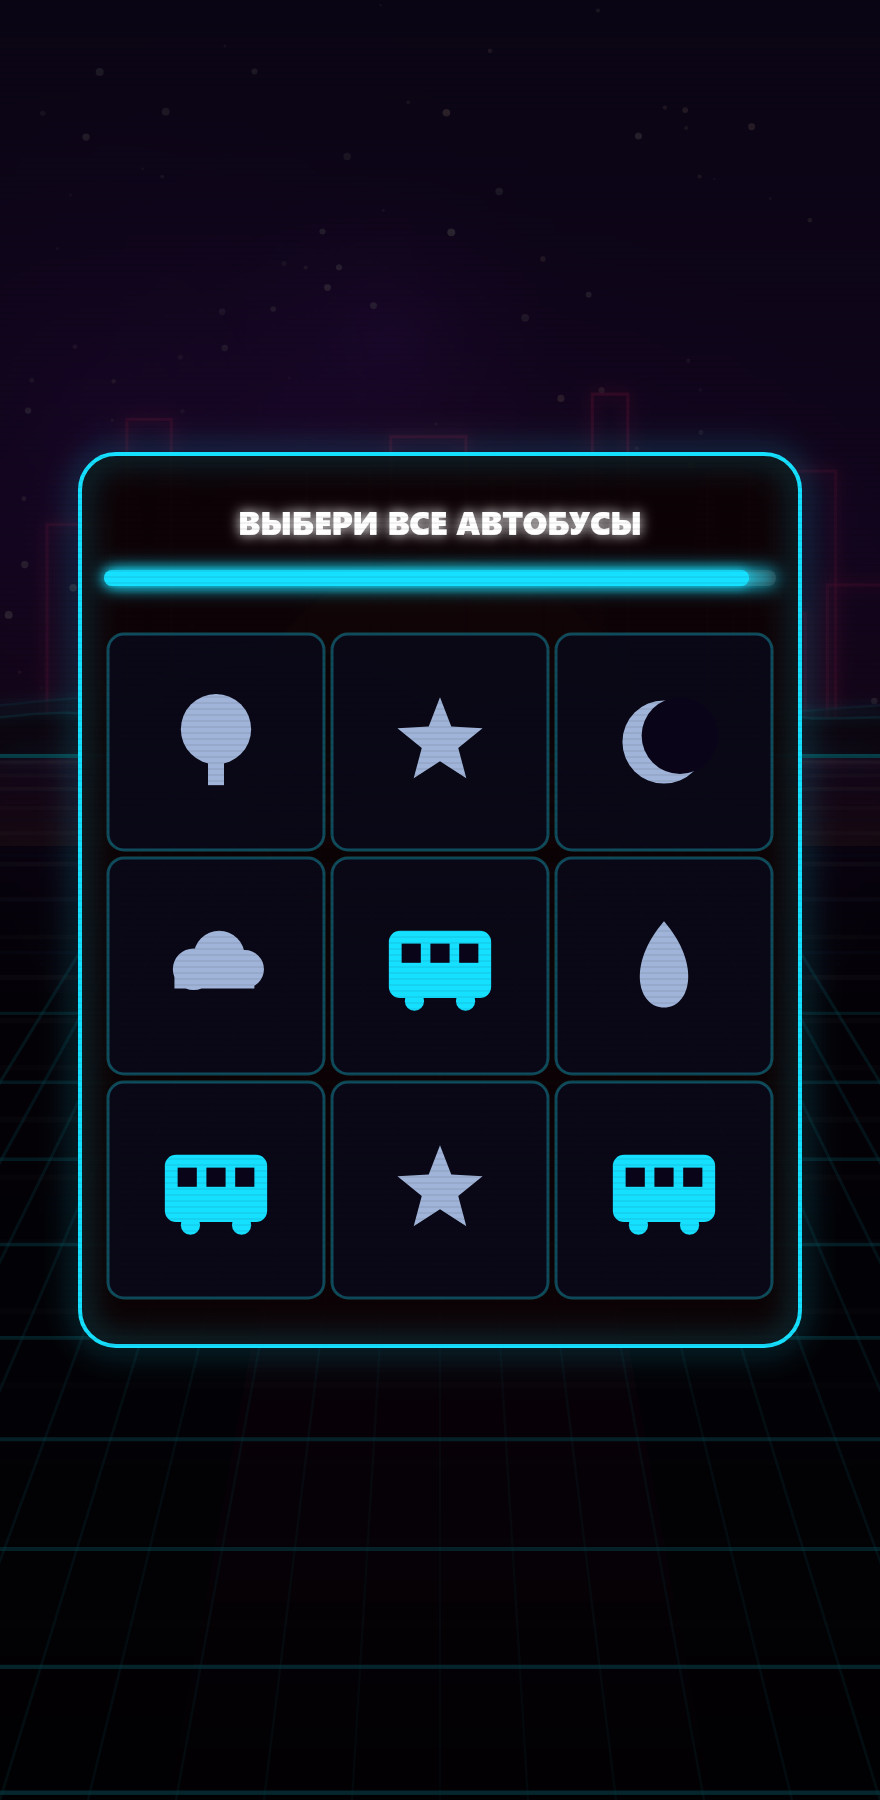
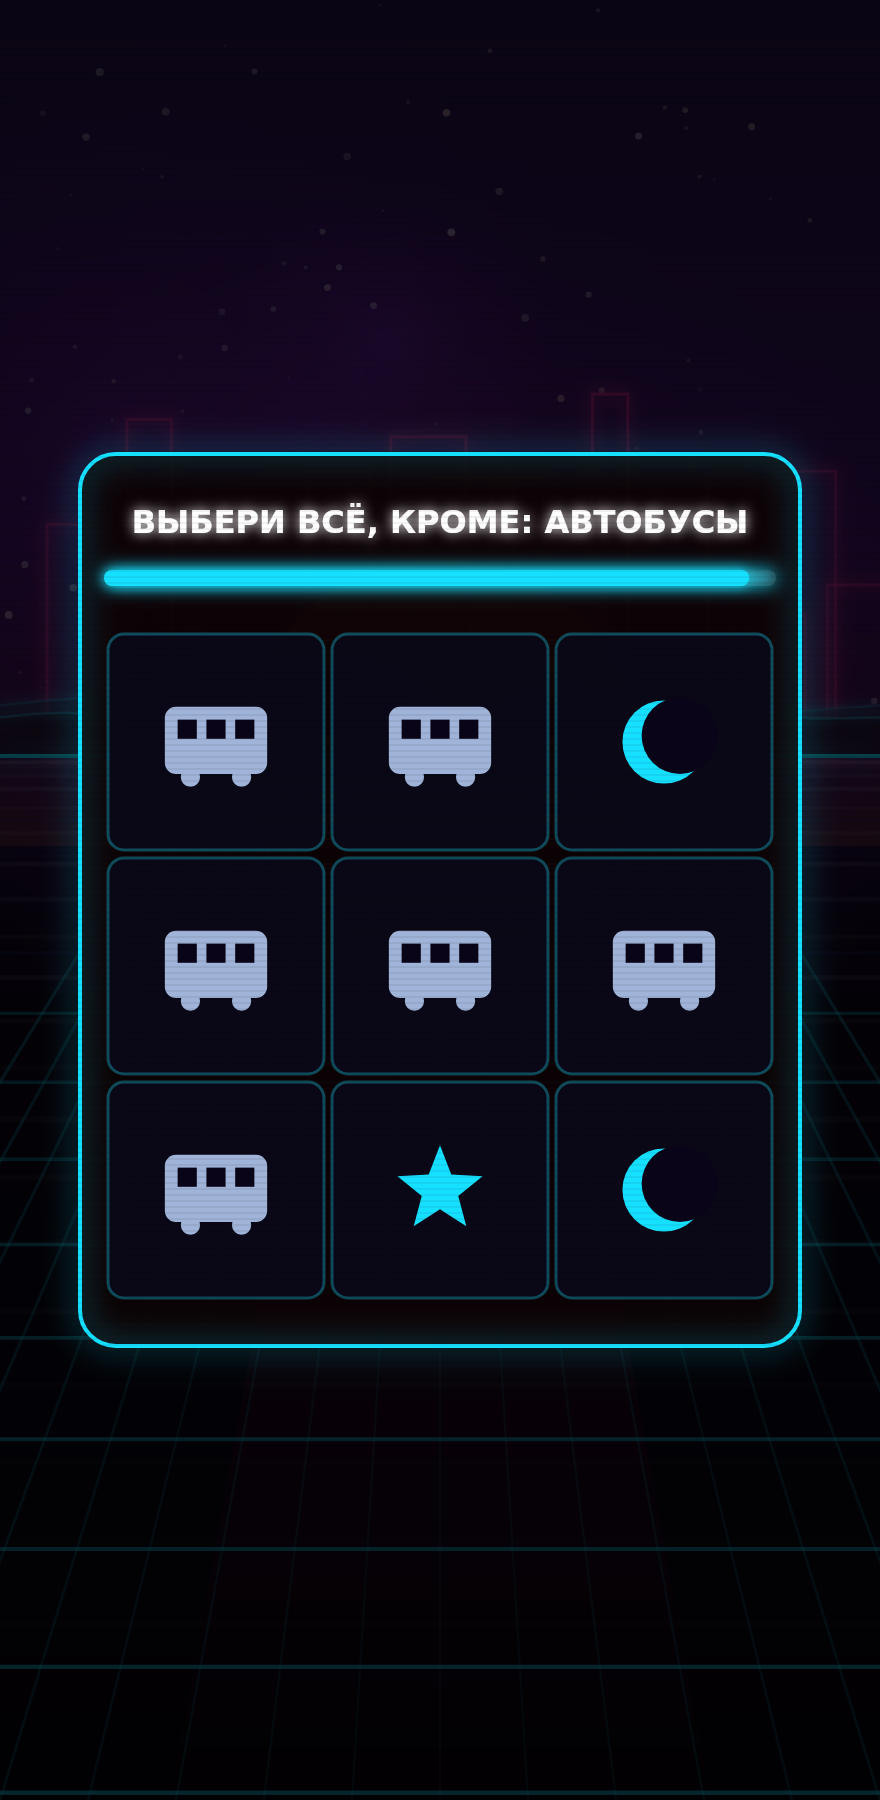
feat: харизма маскота — реплики ракеты, капча-наоборот, контекстная смерть
- Голос маскота: ракета комментирует near-miss/буст/комбо/капчу/зоны/
  инверсию/смерть короткими репликами (popText с кулдауном + idle-болтовня).
- Капча-наоборот (CAPTCHA_INVERT_CHANCE): «выбери всё, КРОМЕ ...» с сохранением
  инварианта решаемости (тапаемых плиток по-прежнему ровно CAPTCHA_TARGETS).
- Контекстная строка смерти: выбирается по доминирующей «боли» забега
  (лаги/капчи/блокировки/реклама), работает в обоих STRINGS_SAFE-режимах.
- Мем-бейджи: «Параноик рунета» (25 забегов), «Крыса туннелей» (100к м).
- Долг: захардкоженные строки гэгов и поп-буста вынесены в strings.js
  (gagUI/boostPop) — теперь их переключает STRINGS_SAFE.
- Тест на решаемость капчи-наоборот в обоих режимах.

https://claude.ai/code/session_01Je4BS1Ht8uPZknmV2RT6aA

diff --git a/src/main.js b/src/main.js
@@ -122,6 +122,24 @@ const COMBO_MILESTONES = [10, 25, 50, 100];
 let lastComboCelebrated = 0;
 let comboBurst = null;
 
+// --- Голос маскота (харизма) -------------------------------------------------
+// Ракета изредка комментирует происходящее короткими репликами (popText над собой).
+// Кулдаун не даёт фразам наслаиваться; idle-таймер подкидывает реплику в простое.
+let mascotCd = 0;            // кулдаун до следующей реплики (с)
+let idleChatter = 0;        // накопитель «тишины» для idle-реплик (с)
+let idleNext = 9;           // порог следующей idle-реплики (с, с джиттером)
+let hackSpoke = false;      // уже отреагировал на текущий «взлом управления»
+
+function mascotSay(key, force = false) {
+  if (!force && (state !== 'play' || mascotCd > 0)) return;
+  const line = pick(STR.mascot[key] || []);
+  if (!line) return;
+  particles.popText(player.x, player.y - player.size * 1.7, line, C.white);
+  mascotCd = 1.7;
+  idleChatter = 0;
+  idleNext = 8 + Math.random() * 6;
+}
+
 // --- Скорость / прогрессия --------------------------------------------------
 function baseSpeed() {
   const base = Math.min(CONFIG.MAX_SPEED, CONFIG.BASE_SPEED + (stats.distance / 100) * CONFIG.SPEED_GROWTH);
@@ -152,6 +170,7 @@ function startGame() {
   timescale.reset();
   lastComboCelebrated = 0;
   comboBurst = null;
+  mascotCd = 0; idleChatter = 0; idleNext = 9; hackSpoke = false;
   player.mood = 'normal';
   state = 'play';
   tutorial.start();
@@ -201,6 +220,7 @@ function die(killerColor = C.danger) {
   // 3-4 тлеющих обломка — «остаточная» деталь после смэша
   for (let i = 0; i < 4; i++) particles.ember(player.x, player.y, killerColor);
   player.invuln = 0;
+  mascotSay('death', true);   // последние слова — даже в состоянии dying
   juiceHitStop(CONFIG.JUICE.DEATH_FREEZE);
 }
 
@@ -305,6 +325,7 @@ function handleCollisions(geom) {
         stats.nearMiss();
         player.mood = 'danger';
         particles.popText(player.x + 40, player.y - 30, pick(STR.hype), C.white);
+        mascotSay('nearMiss');
         juiceSlowMo(CONFIG.JUICE.NEARMISS_SLOWMO, CONFIG.JUICE.NEARMISS_DURATION);
       }
     }
@@ -329,6 +350,7 @@ function handleCollisions(geom) {
         flash = 0.5; shake = 10;
         audio.sfxHit(); haptic('heavy');
         particles.popText(player.x, player.y - 40, '−♥', C.red);
+        mascotSay('loseLife');
         juiceHitStop(CONFIG.JUICE.LOSELIFE_FREEZE);
       } else {
         die(o.color); return;
@@ -363,7 +385,8 @@ function handleCollisions(geom) {
       particles.ring(p.x, p.y, C.white, 10, 120, 0.6);
       particles.ring(p.x, p.y, C.red, 6, 80, 0.45);
       particles.flashGlow(p.x, p.y, C.white, 90, 0.5);
-      particles.popText(player.x + 40, player.y - 40, 'ВПН БУСТ!', C.white);
+      particles.popText(player.x + 40, player.y - 40, STR.boostPop, C.white);
+      mascotSay('boost');
     }
   }
 
@@ -425,6 +448,7 @@ function checkComboCelebration() {
     comboBurst = { milestone, age: 0, duration: 0.75 };
     flash = Math.max(flash, 0.4);
     particles.popText(view.W / 2, view.H / 2 - 40, STR.comboMilestone(milestone), C.white);
+    mascotSay('combo');
     haptic('medium');
   }
 }
@@ -493,6 +517,7 @@ function frame(now) {
         flash = 0.6;
         particles.burst(player.x, player.y, C.white, 16, 260);
         particles.popText(player.x, player.y - 50, pick(STR.captchaSolve), C.white);
+        mascotSay('captchaSolve', true);
         haptic('medium');
       } else {
         // провал: теряем жизнь
@@ -502,6 +527,7 @@ function frame(now) {
         audio.sfxHit(); haptic('heavy');
         particles.popText(player.x, player.y - 50, pick(STR.captchaFail), C.red);
         if (!alive) { captchaGame = null; die(); return requestAnimationFrame(frame); }
+        mascotSay('captchaFail', true);
         player.invuln = CONFIG.CAPTCHA_FAIL_INVULN;
         juiceHitStop(CONFIG.JUICE.LOSELIFE_FREEZE);
       }
@@ -535,6 +561,7 @@ function frame(now) {
       if (zone > currentZone) {
         currentZone = zone;
         particles.popText(view.W / 2, view.H * 0.3, STR.zoneEnter(STR.zones[zone]), world.pal.grid);
+        mascotSay('zone');
         Analytics.zoneReached({ zone });
       }
 
@@ -555,6 +582,15 @@ function frame(now) {
         // сбер «лёг» — глитч-шейк
         shake = Math.max(shake, 6);
       }
+
+      // маскот реагирует на «взлом управления» (инверсию) — один раз за гэг
+      if (events.controlsInverted()) {
+        if (!hackSpoke) { mascotSay('inverted'); hackSpoke = true; }
+      } else hackSpoke = false;
+
+      // idle-болтовня в спокойные моменты (когда давно молчал)
+      idleChatter += dt;
+      if (idleChatter >= idleNext && mascotCd <= 0) mascotSay('idle');
     }
 
     for (const o of obstacles) {
@@ -587,6 +623,7 @@ function frame(now) {
   }
 
   particles.update(dt);
+  mascotCd = Math.max(0, mascotCd - dt);
   shake = Math.max(0, shake - dt * 40);
   flash = Math.max(0, flash - dt * 2.2);
 

diff --git a/src/ui/strings.js b/src/ui/strings.js
@@ -76,6 +76,8 @@ const _raw = {
     combo_god: { name: 'Бог комбо', desc: 'Комбо ×30' },
     rank_up_3: { name: 'Обходчик', desc: 'Звание «Обходчик блокировок»' },
     rank_up_7: { name: 'Легенда', desc: 'Звание «Легенда туннеля»' },
+    paranoid: { name: 'Параноик рунета', desc: '25 забегов — а вдруг следят' },
+    tunnel_rat: { name: 'Крыса туннелей', desc: '100 000 м по подземке трафика' },
   },
   badgeUnlocked: 'Новый бейдж',
 
@@ -143,6 +145,8 @@ const _raw = {
     { label: 'ТАКСИ', key: 'taxi' },
   ],
   captchaInstruction: (target) => `ВЫБЕРИ ВСЕ ${target}`,
+  // «капча-наоборот»: тапни всё, КРОМЕ целевой категории (captcha.js invert-режим)
+  captchaInstructionInvert: (target) => `ВЫБЕРИ ВСЁ, КРОМЕ: ${target}`,
   captchaSolve: ['Я НЕ РОБОТ ✓', 'ИЗИ!', 'ПРОЙДЕНО', 'ВОТ ТАК', 'КАЙФ'],
   captchaFail: ['КАПЧА ХИТРЕЕ', 'ТЫ РОБОТ?', 'ВРЕМЯ ВЫШЛО', 'ПОПРОБУЙ ЕЩЁ'],
   captchaHint: 'Тап по плиткам — найди все нужные',
@@ -166,6 +170,50 @@ const _raw = {
 
   // Комбо-вехи
   comboMilestone: (n) => `×${n} COMBO!`,
+
+  // Поп-строка при подборе ВПН-буста (раньше была захардкожена в main.js)
+  boostPop: 'ВПН БУСТ!',
+
+  // Заголовки/подписи визуальных гэгов (раньше жили строками прямо в events.js —
+  // из-за чего STRINGS_SAFE их не переключал; бренд-нейтральны, общие для обоих режимов).
+  gagUI: {
+    dnsTitle: 'DNS ШТОРМ',
+    scannerSub: 'КРОМЕ ИНТЕРНЕТА',
+    hackTitle: 'ВЗЛОМ УПРАВЛЕНИЯ',
+    cookieTitle: 'ПРИМИТЕ COOKIES',
+    cookieBtn: 'ПРИНЯТЬ ВСЁ',
+    adClose: '[ ТАП ЧТОБЫ ЗАКРЫТЬ ]',
+  },
+
+  // Реплики маскота-ракеты: короткие живые комментарии к происходящему.
+  // Бренд-нейтральны — общие для raw/safe. Кидаются через popText с кулдауном.
+  mascot: {
+    nearMiss: ['пронесло!', 'очко!', 'на волоске', 'фух', 'я цел', 'не задело'],
+    boost: ['врубаю ВПН', 'газу!', 'не догонишь', 'турбо-режим', 'вжух'],
+    captchaSolve: ['я не робот, отвечаю', 'изи', 'я живой!', 'доказал'],
+    captchaFail: ['да я живой!', 'ну что за…', 'я не робот!', 'опять капча'],
+    combo: ['я в ударе', 'не остановить', 'комбо-машина', 'на кураже'],
+    loseLife: ['ай!', 'больно же', 'минус жизнь', 'ну вот'],
+    inverted: ['да камон!', 'кто трогал управление?!', 'руки убрал', 'где лево?!'],
+    zone: ['новые места', 'о, тут красиво', 'погнали глубже', 'смена обстановки'],
+    idle: ['эй, мы летим?', 'свайпни уже', 'я готов', 'ну чего ждём?'],
+    death: ['всё, инет лёг', 'меня не спасти', 'передайте ЮБусту привет', 'это конец', 'ну и пинг…'],
+  },
+
+  // Контекстная строка смерти: выбирается по доминирующей «боли» забега
+  // (больше всего лагов/капч/блокировок/рекламы), иначе — случайная из death.
+  // Работает в обоих режимах: матчит ключевые слова, общие для raw и safe.
+  deathFor: (stats) => {
+    const arr = STR.death;
+    const pains = { lags: /л[её]г|пинг/i, captchas: /капч/i, geoblocks: /замедл|оштраф/i, ads: /доставк|спис|возврат/i };
+    let topStat = null, topVal = 0;
+    for (const k of Object.keys(pains)) if ((stats?.[k] || 0) > topVal) { topVal = stats[k]; topStat = k; }
+    if (topStat) {
+      const matches = arr.filter((l) => pains[topStat].test(l));
+      if (matches.length) return pick(matches);
+    }
+    return bagPick(arr);
+  },
 
   shareText: (d, s) =>
     `Я пролетел ${d} м в ЮБуст Раннере, увернулся от РКН, капч и казино и набил ${s} очков 🚀\n` +

diff --git a/src/game/events.js b/src/game/events.js
@@ -116,7 +116,7 @@ export class EventManager {
       if (img) {
         const dh = pw * (img.height / img.width);
         ctx.drawImage(img, bx, by, pw, dh);
-        neonText(ctx, '[ ТАП ЧТОБЫ ЗАКРЫТЬ ]', W / 2, by + dh + 18, { color: C.red, size: 11, glow: 6 });
+        neonText(ctx, STR.gagUI.adClose, W / 2, by + dh + 18, { color: C.red, size: 11, glow: 6 });
       } else {
         ctx.fillStyle = 'rgba(12,2,4,0.92)';
         ctx.beginPath();
@@ -125,7 +125,7 @@ export class EventManager {
         ctx.strokeStyle = C.red; ctx.lineWidth = 2; ctx.shadowColor = C.red; ctx.shadowBlur = 16;
         ctx.stroke();
         neonText(ctx, label, bx + pw / 2, by + ph / 2 - 8, { color: '#fff', size: 18, glow: 8 });
-        neonText(ctx, '[ ТАП ЧТОБЫ ЗАКРЫТЬ ]', bx + pw / 2, by + ph - 14, { color: C.red, size: 11, glow: 6 });
+        neonText(ctx, STR.gagUI.adClose, bx + pw / 2, by + ph - 14, { color: C.red, size: 11, glow: 6 });
       }
     } else if (type === 'hack') {
       this._drawHack(ctx, W, H, t, label, alpha, glitchOn);
@@ -158,7 +158,7 @@ export class EventManager {
         weight: '800',
       });
     }
-    neonText(ctx, 'DNS ШТОРМ', W / 2, H * 0.18, { color: C.data, size: 22, glow: 16 });
+    neonText(ctx, STR.gagUI.dnsTitle, W / 2, H * 0.18, { color: C.data, size: 22, glow: 16 });
     ctx.globalAlpha = alpha * 0.22;
     ctx.fillStyle = C.data;
     for (let i = 0; i < 24; i++) ctx.fillRect((i * 47 + t * 180) % W, (i * 71) % H, 8, 2);
@@ -188,11 +188,11 @@ export class EventManager {
     roundRectPath(ctx, 16, y, W - 32, panelH, 10);
     ctx.fillStyle = 'rgba(8,6,22,0.94)'; ctx.fill();
     ctx.strokeStyle = C.warn; ctx.shadowColor = C.warn; ctx.shadowBlur = 18; ctx.lineWidth = 2; ctx.stroke();
-    neonText(ctx, 'ПРИМИТЕ COOKIES', W / 2, y + panelH * 0.28, { color: C.white, size: 18, glow: 10 });
+    neonText(ctx, STR.gagUI.cookieTitle, W / 2, y + panelH * 0.28, { color: C.white, size: 18, glow: 10 });
     const bw = Math.min(180, W * 0.44);
     roundRectPath(ctx, W / 2 - bw / 2, y + panelH * 0.52, bw, 34, 8);
     ctx.fillStyle = C.warn; ctx.fill();
-    neonText(ctx, 'ПРИНЯТЬ ВСЁ', W / 2, y + panelH * 0.52 + 17, { color: '#120600', size: 15, glow: 0 });
+    neonText(ctx, STR.gagUI.cookieBtn, W / 2, y + panelH * 0.52 + 17, { color: '#120600', size: 15, glow: 0 });
   }
 
   _drawIpTarget(ctx, W, H, t, label, alpha) {
@@ -215,7 +215,7 @@ export class EventManager {
     ctx.strokeStyle = C.data; ctx.shadowColor = C.data; ctx.shadowBlur = 18; ctx.lineWidth = 2;
     ctx.beginPath(); ctx.moveTo(0, y); ctx.lineTo(W, y); ctx.stroke();
     neonText(ctx, label, W / 2, H * 0.22, { color: C.white, size: 28, glow: 14 });
-    neonText(ctx, 'КРОМЕ ИНТЕРНЕТА', W / 2, H * 0.22 + 34, { color: C.data, size: 12, glow: 8 });
+    neonText(ctx, STR.gagUI.scannerSub, W / 2, H * 0.22 + 34, { color: C.data, size: 12, glow: 8 });
   }
 
   _drawNotFoundGate(ctx, W, H, t, label, alpha) {
@@ -253,7 +253,7 @@ export class EventManager {
       ctx.fillRect(shift, gy, W, glitchOn ? 3 + (i % 3) : 2);
     }
     ctx.globalAlpha = alpha;
-    neonText(ctx, 'ВЗЛОМ УПРАВЛЕНИЯ', W / 2, H * 0.2, { color: C.nebula, size: 24, glow: 18 });
+    neonText(ctx, STR.gagUI.hackTitle, W / 2, H * 0.2, { color: C.nebula, size: 24, glow: 18 });
     neonText(ctx, label, W / 2, H * 0.2 + 30, { color: C.white, size: 14, glow: 10 });
   }
 

diff --git a/src/game/captcha.js b/src/game/captcha.js
@@ -133,6 +133,10 @@ export class CaptchaGame {
     this.timer = CONFIG.CAPTCHA_TIME;
     this.done = false;
     this.result = null; // 'solved' | 'failed'
+    // «капча-наоборот»: тапнуть нужно всё, КРОМЕ целевой категории. Инвариант
+    // решаемости сохраняется — тапаемых (correct) плиток по-прежнему ровно TARGETS,
+    // просто целевая иконка рисуется на НЕтапаемых, а на тапаемых — децои.
+    this.invert = Math.random() < CONFIG.CAPTCHA_INVERT_CHANCE;
     this._buildGrid();
     this.phase = 0; // для анимации входа
     this.entranceT = 0;
@@ -148,13 +152,19 @@ export class CaptchaGame {
     }
     this.correctSet = new Set(indices.slice(0, TARGETS));
     // Целевая иконка — категория задания; децой — из пула не-целевых форм.
+    // В invert-режиме раскладка иконок зеркальна: целевая категория на НЕтапаемых
+    // плитках, а тапнуть надо «всё остальное» (децои на correct-плитках).
     const target = ICONS[this.task.key] ? this.task.key : 'traffic_light';
-    this.tiles = Array.from({ length: n }, (_, i) => ({
-      correct: this.correctSet.has(i),
-      selected: false,
-      icon: this.correctSet.has(i) ? target : DECOY_KEYS[i % DECOY_KEYS.length],
-      shake: 0,
-    }));
+    this.tiles = Array.from({ length: n }, (_, i) => {
+      const mustTap = this.correctSet.has(i);
+      const showsTarget = this.invert ? !mustTap : mustTap;
+      return {
+        correct: mustTap,
+        selected: false,
+        icon: showsTarget ? target : DECOY_KEYS[i % DECOY_KEYS.length],
+        shake: 0,
+      };
+    });
   }
 
   // Вычислить геометрию сетки относительно центра экрана
@@ -227,7 +237,10 @@ export class CaptchaGame {
     const glitch = Math.random() < 0.04;
     ctx.shadowColor = C.grid; ctx.shadowBlur = 14;
     if (glitch) ctx.translate((Math.random() - 0.5) * 3, 0);
-    neonText(ctx, STR.captchaInstruction(this.task.label),
+    const instruction = this.invert
+      ? STR.captchaInstructionInvert(this.task.label)
+      : STR.captchaInstruction(this.task.label);
+    neonText(ctx, instruction,
       px + panelW / 2, py + 34, { color: '#fff', size: 16, glow: 10 });
     if (glitch) ctx.translate(0, 0);
 

diff --git a/config.js b/config.js
@@ -74,6 +74,7 @@ export const CONFIG = {
   CAPTCHA_GRID: 3,         // размер сетки (3 = 3×3)
   CAPTCHA_TARGETS: 3,      // сколько верных плиток в сетке
   CAPTCHA_STRICT: true,    // true = первый неверный тап = провал; false = только таймаут
+  CAPTCHA_INVERT_CHANCE: 0.3, // шанс «капчи-наоборот»: тапни всё, КРОМЕ целевой категории
   CAPTCHA_SOLVE_INVULN: 2.0, // неуязвимость после решения (с)
   CAPTCHA_FAIL_INVULN: 1.5,  // неуязвимость после провала (с)
   SCORE_CAPTCHA_SOLVE: 200,  // бонус-очки за решение
@@ -126,6 +127,8 @@ export const CONFIG = {
     { id: 'combo_god', check: 'bestCombo', target: 30 },
     { id: 'rank_up_3', check: 'rankId', target: 3 },
     { id: 'rank_up_7', check: 'rankId', target: 7 },
+    { id: 'paranoid', check: 'gamesPlayed', target: 25 },
+    { id: 'tunnel_rat', check: 'totalDist', target: 100000 },
   ],
 
   // --- Визуальные зоны: палитра меняется с дистанцией ------------------------

diff --git a/src/ui/screens.js b/src/ui/screens.js
@@ -1,5 +1,5 @@
 // Управление DOM-экранами: старт / game over / HUD.
-import { STR, pick, bagPick } from './strings.js';
+import { STR } from './strings.js';
 
 const $ = (id) => document.getElementById(id);
 
@@ -174,7 +174,7 @@ export function showGameOver(stats, isRecord, cardCanvas, challengeBeat = false,
   dom.btnSettings?.classList.remove('hidden');
   dom.over.classList.remove('hidden');
   $('gameover-title').textContent = STR.gameOver;
-  dom.deathLine.textContent = challengeBeat ? STR.challengeBeat : bagPick(STR.death);
+  dom.deathLine.textContent = challengeBeat ? STR.challengeBeat : STR.deathFor(stats);
   dom.finalScore.innerHTML = `<b>${stats.scoreInt}</b> очков · ${stats.distInt} м · ${STR.best}: ${stats.best}`;
   dom.recordBadge.classList.toggle('hidden', !isRecord);
   dom.statsList.innerHTML = `
